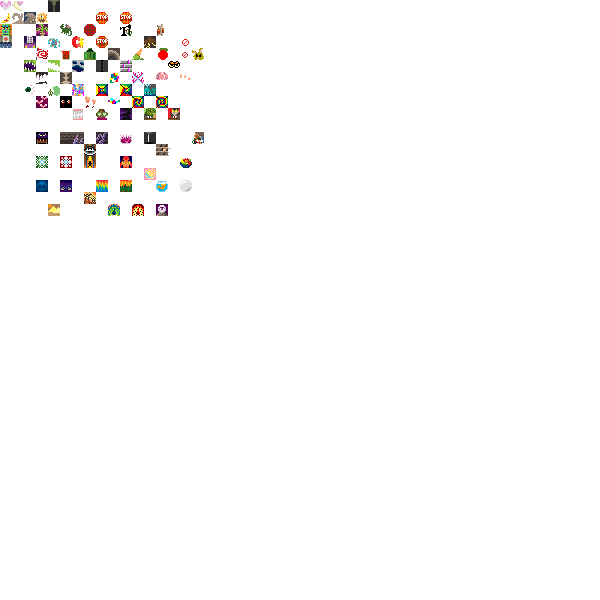
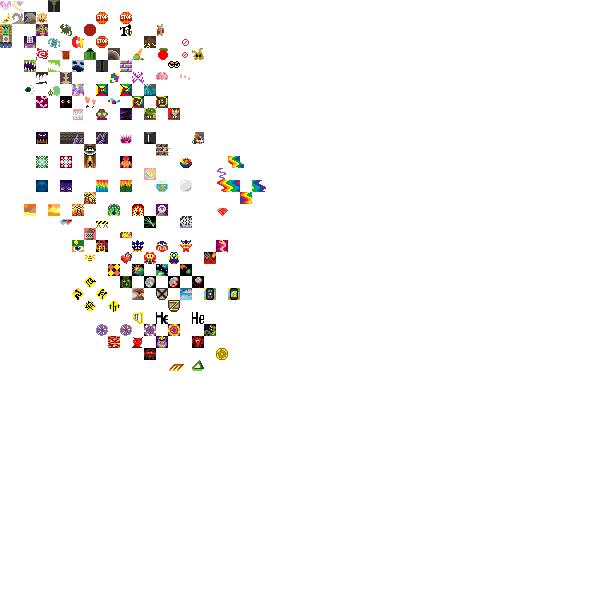
Add some more squares to the CSV
- PSD should be resaved to PNG using Photoshop and sliced again before
committing new images

- Fixed issue with configurator not knowing full name of squares in the
source CSV but not in the info CSV. As a result read_info() currently
contains a hack that calls get_filename() twice - really we should
restructure the info CSV so it's indexed by name, not filename.

diff --git a/hardlivin/csvdata.py b/hardlivin/csvdata.py
@@ -22,8 +22,7 @@ def read_sourcemaps():
     sourcemaps = {}
     for csvname in csvnames:
         with open(os.path.join(DATADIR, csvname), 'rb') as csvfile:
-            sourcemaps[csvname] = [[(get_filename(square) if square else None) for square in row]
-                                   for row in csv.reader(csvfile)]
+            sourcemaps[csvname] = [[square for square in row] for row in csv.reader(csvfile)]
     return sourcemaps
 
 
@@ -33,9 +32,9 @@ def read_info():
     with open(os.path.join(DATADIR, 'info.csv'), 'rb') as csvfile:
         infofile = {row[0]: tuple(row[1:]) for row in csv.reader(csvfile)}
 
-    return odict((filename, infofile.get(filename, ''))
+    return odict((get_filename(name), infofile.get(get_filename(name), (name, '')))
                  for sourcemap in read_sourcemaps().itervalues() for row in sourcemap
-                 for filename in row if filename)
+                 for name in row if name)
 
 
 def write_info(newinfo):

diff --git a/slice.py b/slice.py
@@ -27,7 +27,7 @@ datapath = os.path.join('hardlivin', 'data')
 for imgfile, padding in files.iteritems():
     # get square names and info
     with open(os.path.join(datapath, imgfile + '.csv'), 'rb') as csvfile:
-        sqnames = {(sx, sy): re.sub('[^\w-]', '', square.split('\n', 1)[0].lower())
+        sqnames = {(sx, sy): re.sub('[^\w-]', '', square.lower())
                    for sy, row in enumerate(csv.reader(csvfile))
                    for sx, square in enumerate(row) if square}
 
